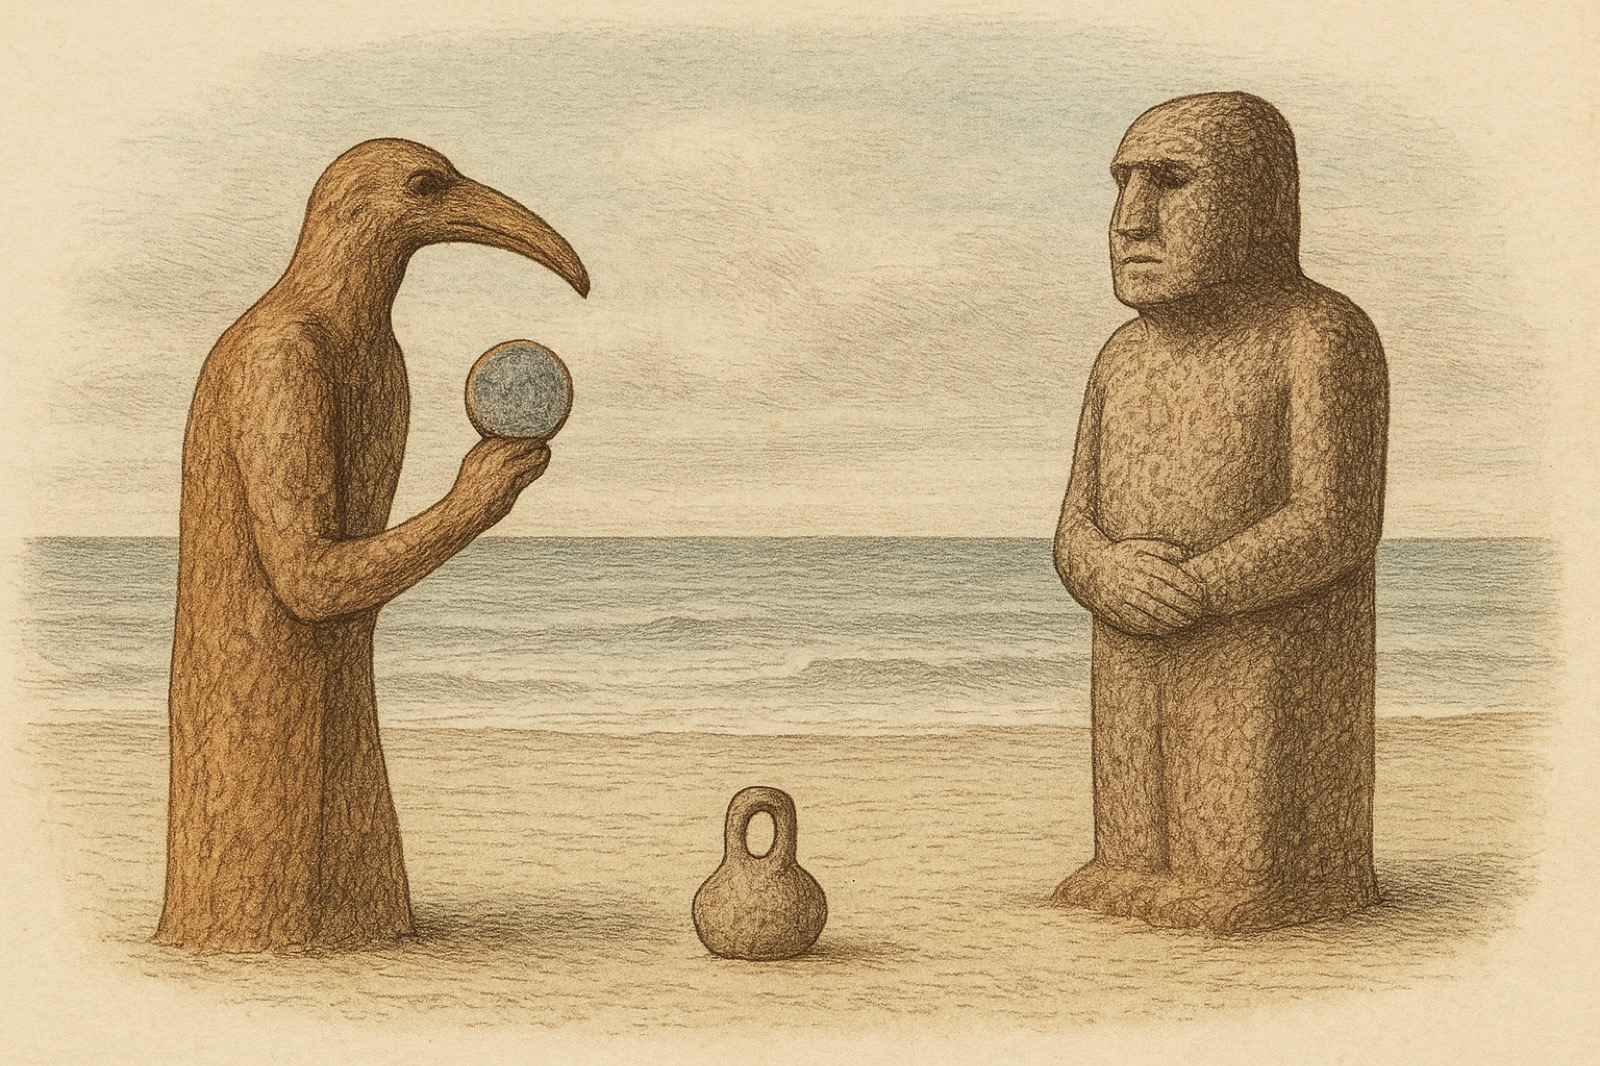
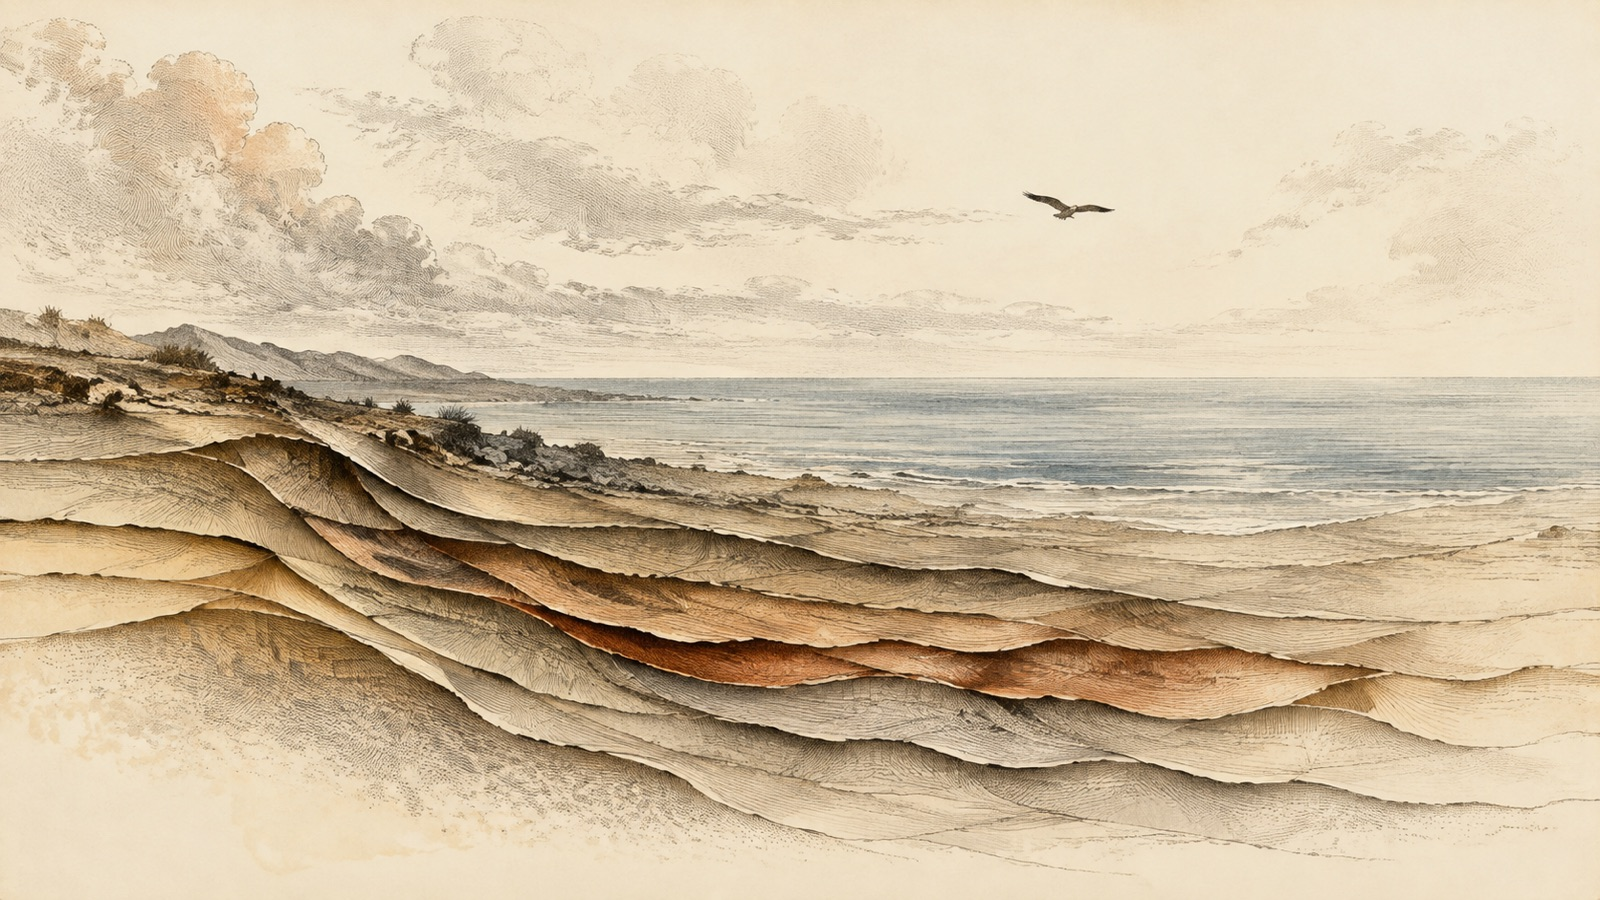
The Deep Memory cover is the founder's lab-site picture, brought over unchanged with its record (#249)
Founder direction, 2026-09-09, in session: he prefers the cover he made for his lab site and confirmed it is AI-generated. It replaces the gpt-image-1 cover of the same day, with the lab record's prompt, model line and run id carried over, the copy's source commit and md5 in the history entry, and the case's tone row and the script's tone set to match it.

Claude-Session: https://claude.ai/code/session_01AiXD4y5Y91KC7iM3uBhWmu

diff --git a/docs/IMAGE_STYLE.md b/docs/IMAGE_STYLE.md
@@ -90,7 +90,7 @@ direction); keep the two in sync.
 | `zero-worlds` | Graphite and lapis | faint graphite and warm dove-grey washes, generous bare cream paper (the sparest cover in the set), one small deep-lapis accent at the observer's lantern |
 | `immortality-key` | Wine-dark and barley gold | muted Tyrian purple and wine-dark cup and vine, pale barley-gold grain, warm umber shadows, one small pale-mint accent on the herb sprig |
 | `pre-columbian-amazon` | Viridian and river gold | deep viridian and forest-green canopy washes, a pale ochre-gold river meander, faint umber earthwork lines beneath the canopy, one small vermilion accent on the chronicler's ribbon marker |
-| `deep-memory` | Sepia shore and lapis | warm sepia and burnt-umber stone, weathered basalt grey, a pale sand-and-sea-mist wash, one small faded lapis accent on the held disc |
+| `deep-memory` | Sandstone shore and slate | pale sandstone ochre in the layered earth, faded slate blue in distant water, warm umber shadows, one restrained copper accent (the founder's lab cover, 2026-09-06) |
 
 Rules of thumb:
 
